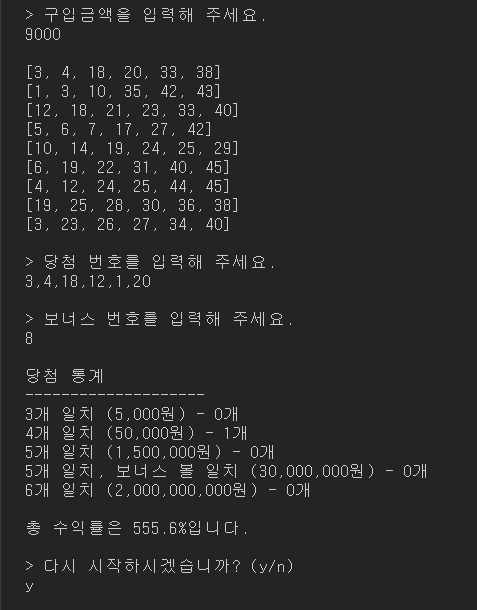
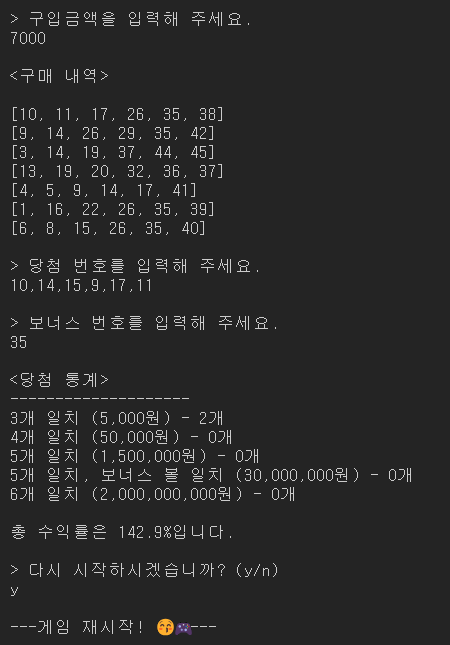
docs: 리드미 수정
-리팩토링에 따라 파일에 대한 설명 수정
- 게임 실행 사진 변경

diff --git a/README.md b/README.md
@@ -62,16 +62,20 @@ src
  ┃ ┣ messages.js : 입출력 관련 상수 관리
  ┃ ┗ rules.js : 게임 룰에 관련 된 상수 관리
  ┣ domains
+ ┃ ┣ Bonus.js : 보너스 번호에 대한 유효성 검사 및 로또 번호에 보너스 번호가 있는 지 여부를 확인하는 모듈
+ ┃ ┣ GameRestartChecker.js : 게임 재시작 입력값에 대한 유효성 검사와 게임 재시작 여부를 확인하는 모듈
  ┃ ┣ index.js
- ┃ ┣ LottoGame.js : 로또 게임의 도메인 로직들(LottoMachine, Statistics, WinningLotto)을 전반적으로 관리하는 모듈
+ ┃ ┣ Lotto.js :로또 번호들에 대한 유효성 검사를 진행하고 유효한 로또 번호들을 관리하는 모듈
  ┃ ┣ LottoMachine.js : 구입 금액에 따른 로또들을 발행하고 구입금액과 발행된 로또들을 관리하는 모듈
+ ┃ ┣ LottoNumber.js :한 개의 로또 번호에 대한 유효성 검사를 진행하고 유효한 로또 번호를 관리하는 모듈
+ ┃ ┣ LottoResultsHelper.js : LottoMachine,WinningLotto,Bonus 모듈을 관리하는 상위 모듈로, 이들을 실행시켜서 발행된 로또 티켓 모두에 대한 당첨번호와 보너스 번호화의 일치 결과를 계산하는 모듈
  ┃ ┣ Statistics.js : 당첨 번호,보너스 번호와 발행된 로또 번호의 일치 여부 결과를 이용해 통계(등수별 일치 개수)와 수익률을 계산하는 모듈
- ┃ ┣ Validator.js : 유효성 검사를 관리하는 모듈
- ┃ ┗ WinningLotto.js : 당첨 번호와 보너스 번호에 대한 사용자의 입력값으로 당첨 로또와 보너스 번호를 생성해 당첨 번호,보너스 번화와 발행된 로또를 비교하는 모듈
+ ┃ ┗ WinningLotto.js : 유효성 검사 유틸함수와 Lotto를 활용해 당첨 로또 번호들에 대한 유효성 검사를 진행하며 유효한 당첨 번호들 관리하하고 발행된 로또 티켓 한 장에 대한 당첨 번호와 보너스 번호를 비교하는 모듈
  ┣ services
- ┃ ┣ GameController.js :UI와 도메인 사이에서 InputController 를 통해 입력값을 받아와 LottoGame을 실행하고 해당 결과들을 UI에게 넘겨서 로또 미션의 전반적인 기능이 돌아가도록 하는 모듈
+ ┃ ┣ GameManager.js :LottoGame의 상위 모듈로, LottoGame를 실행 게임을 시작하고 GameRestartChecker를 통해 게임 재시작과 종료를 관리하는 모듈
  ┃ ┣ index.js
- ┃ ┗ InputController.js
+ ┃ ┣ InputController.js
+ ┃ ┗ LottoGame.js :InputController와 LottoResultHelper,Statistics를 실행해 로또 게임을 진행하는 모듈로
  ┣ utils
  ┃ ┣ Console.js : 콘솔 입출력에 대한 모듈
  ┃ ┣ index.js
@@ -81,11 +85,22 @@ src
  ┃ ┣ index.js
  ┃ ┣ InputView.js
  ┃ ┗ OutputView.js
- ┣ GameApp.js : 게임 실행 시, GameController을 실행 해 게임을 진행하는 모듈
+ ┣ GameApp.js : 게임 실행 시,  GameManager을 실행 해 게임을 진행하는 모듈
  ┣ step1-index.js
  ┗ step2-index.js
 
 ```
+
+</div>
+</details>
+
+### 로또 미션 순서도 및 구조
+
+<details>
+<summary>🔍 로또 미션 순서도 및 구조 보기</summary>
+<div markdown="1">
+
+<img src="./로또미션_순서도_구조.png" alt="로또 미션 순서도 및 구조">
 
 </div>
 </details>

diff --git a/docs/REQUIRMENTS.md b/docs/REQUIRMENTS.md
@@ -56,6 +56,6 @@
 - [x] 로또 숫자 -> Lotto
 - [x] 보너스 번호 -> Bonus
       [x] WinningLotto : 당첨 번호
-      [] LottoResultHelper
+      [x] LottoResultsHelper
   - 필드 : lottoMachine , winningLotto
   -
